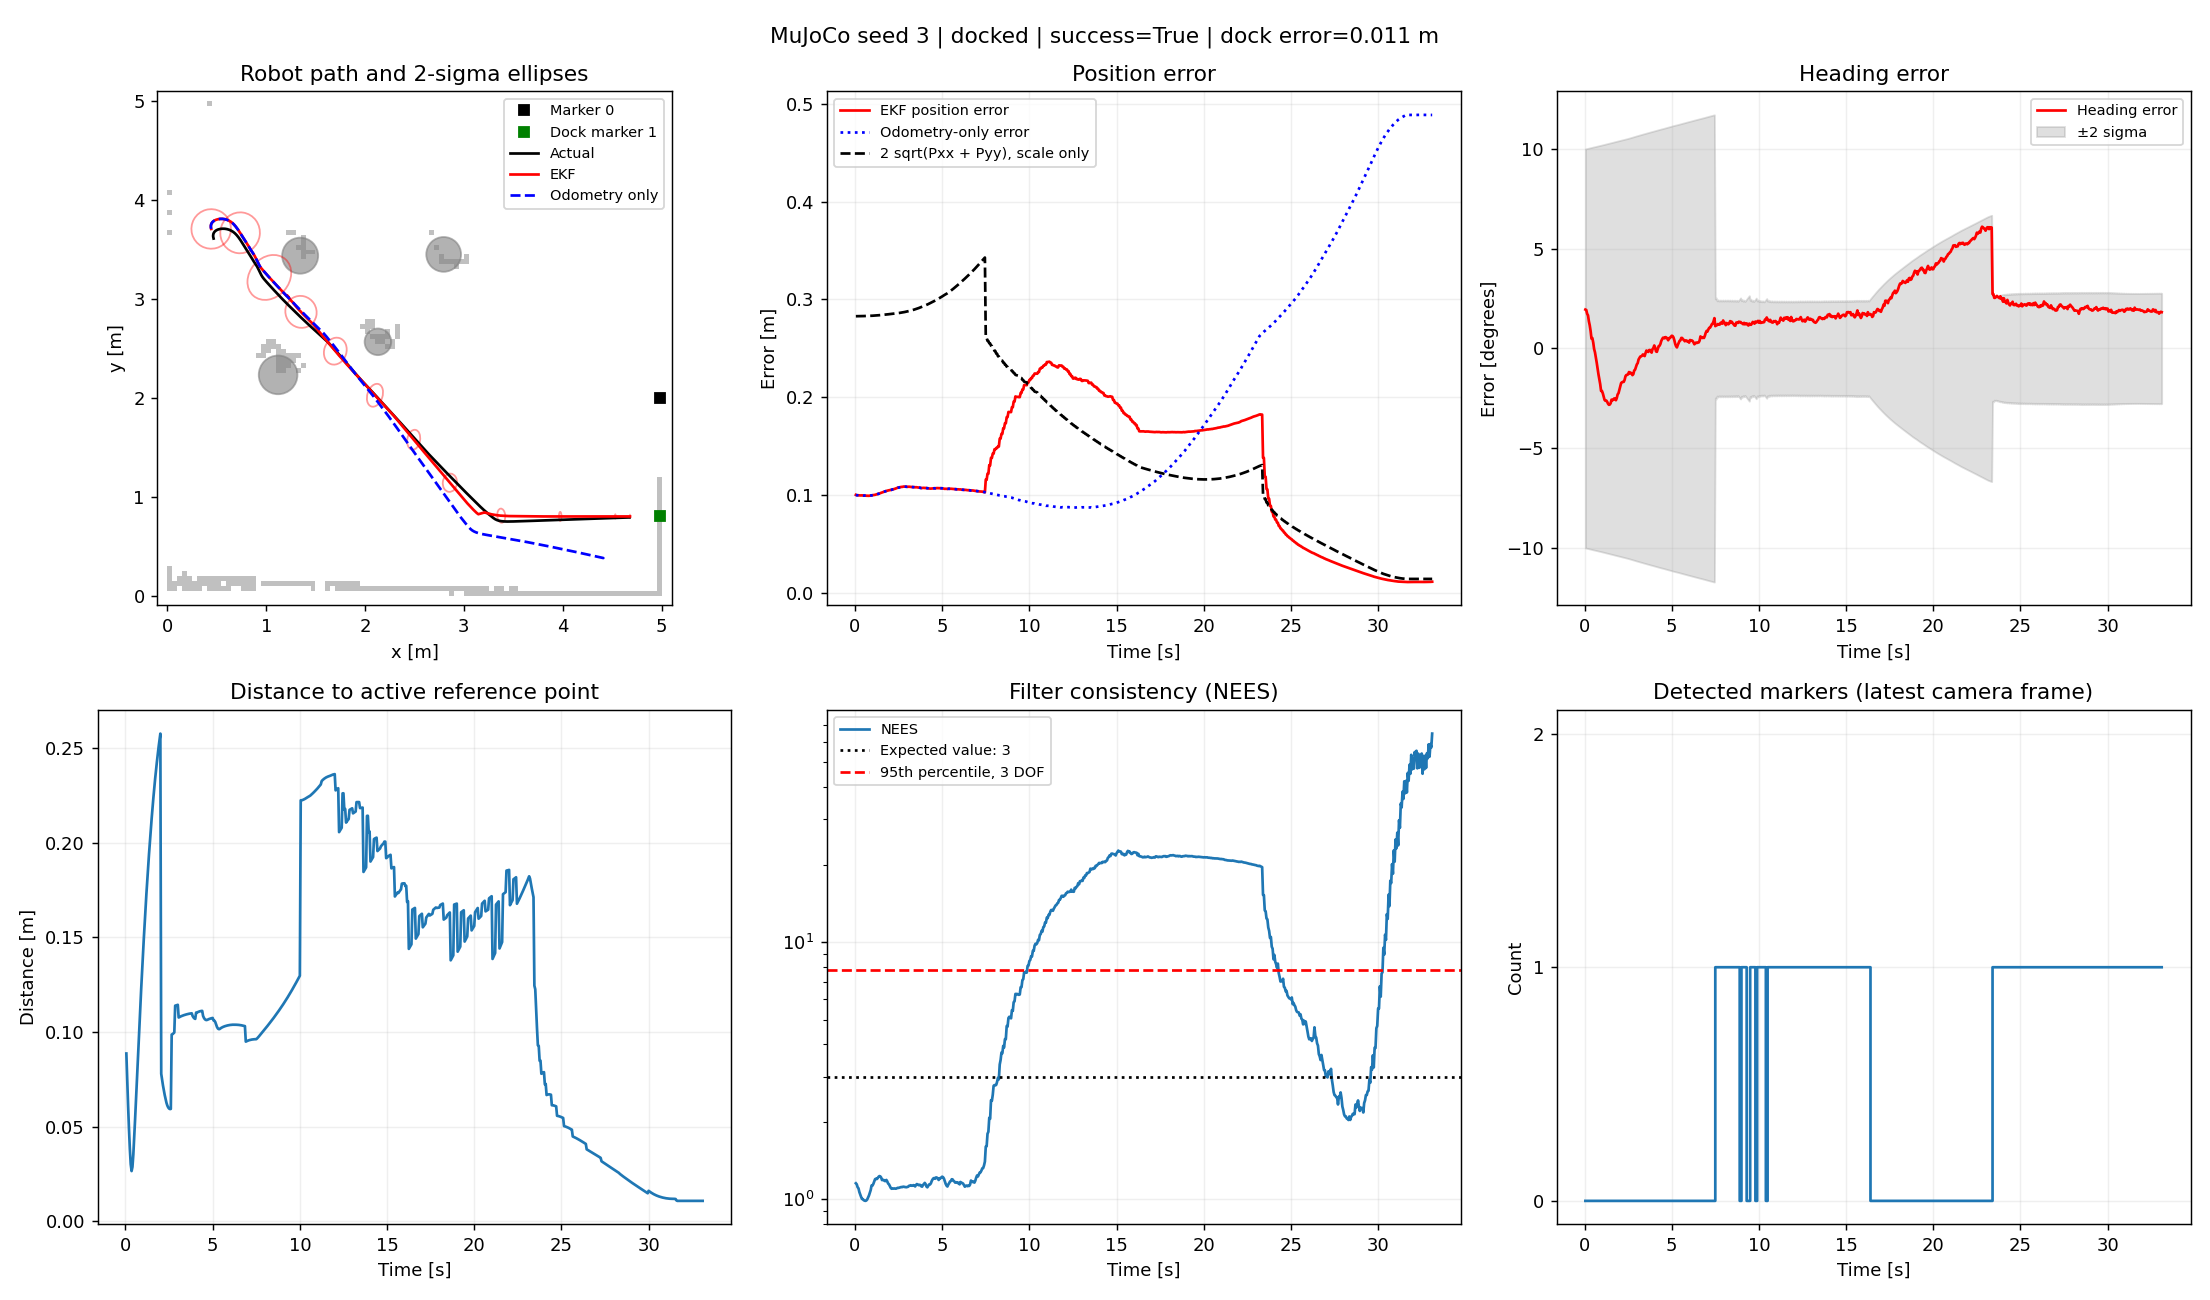
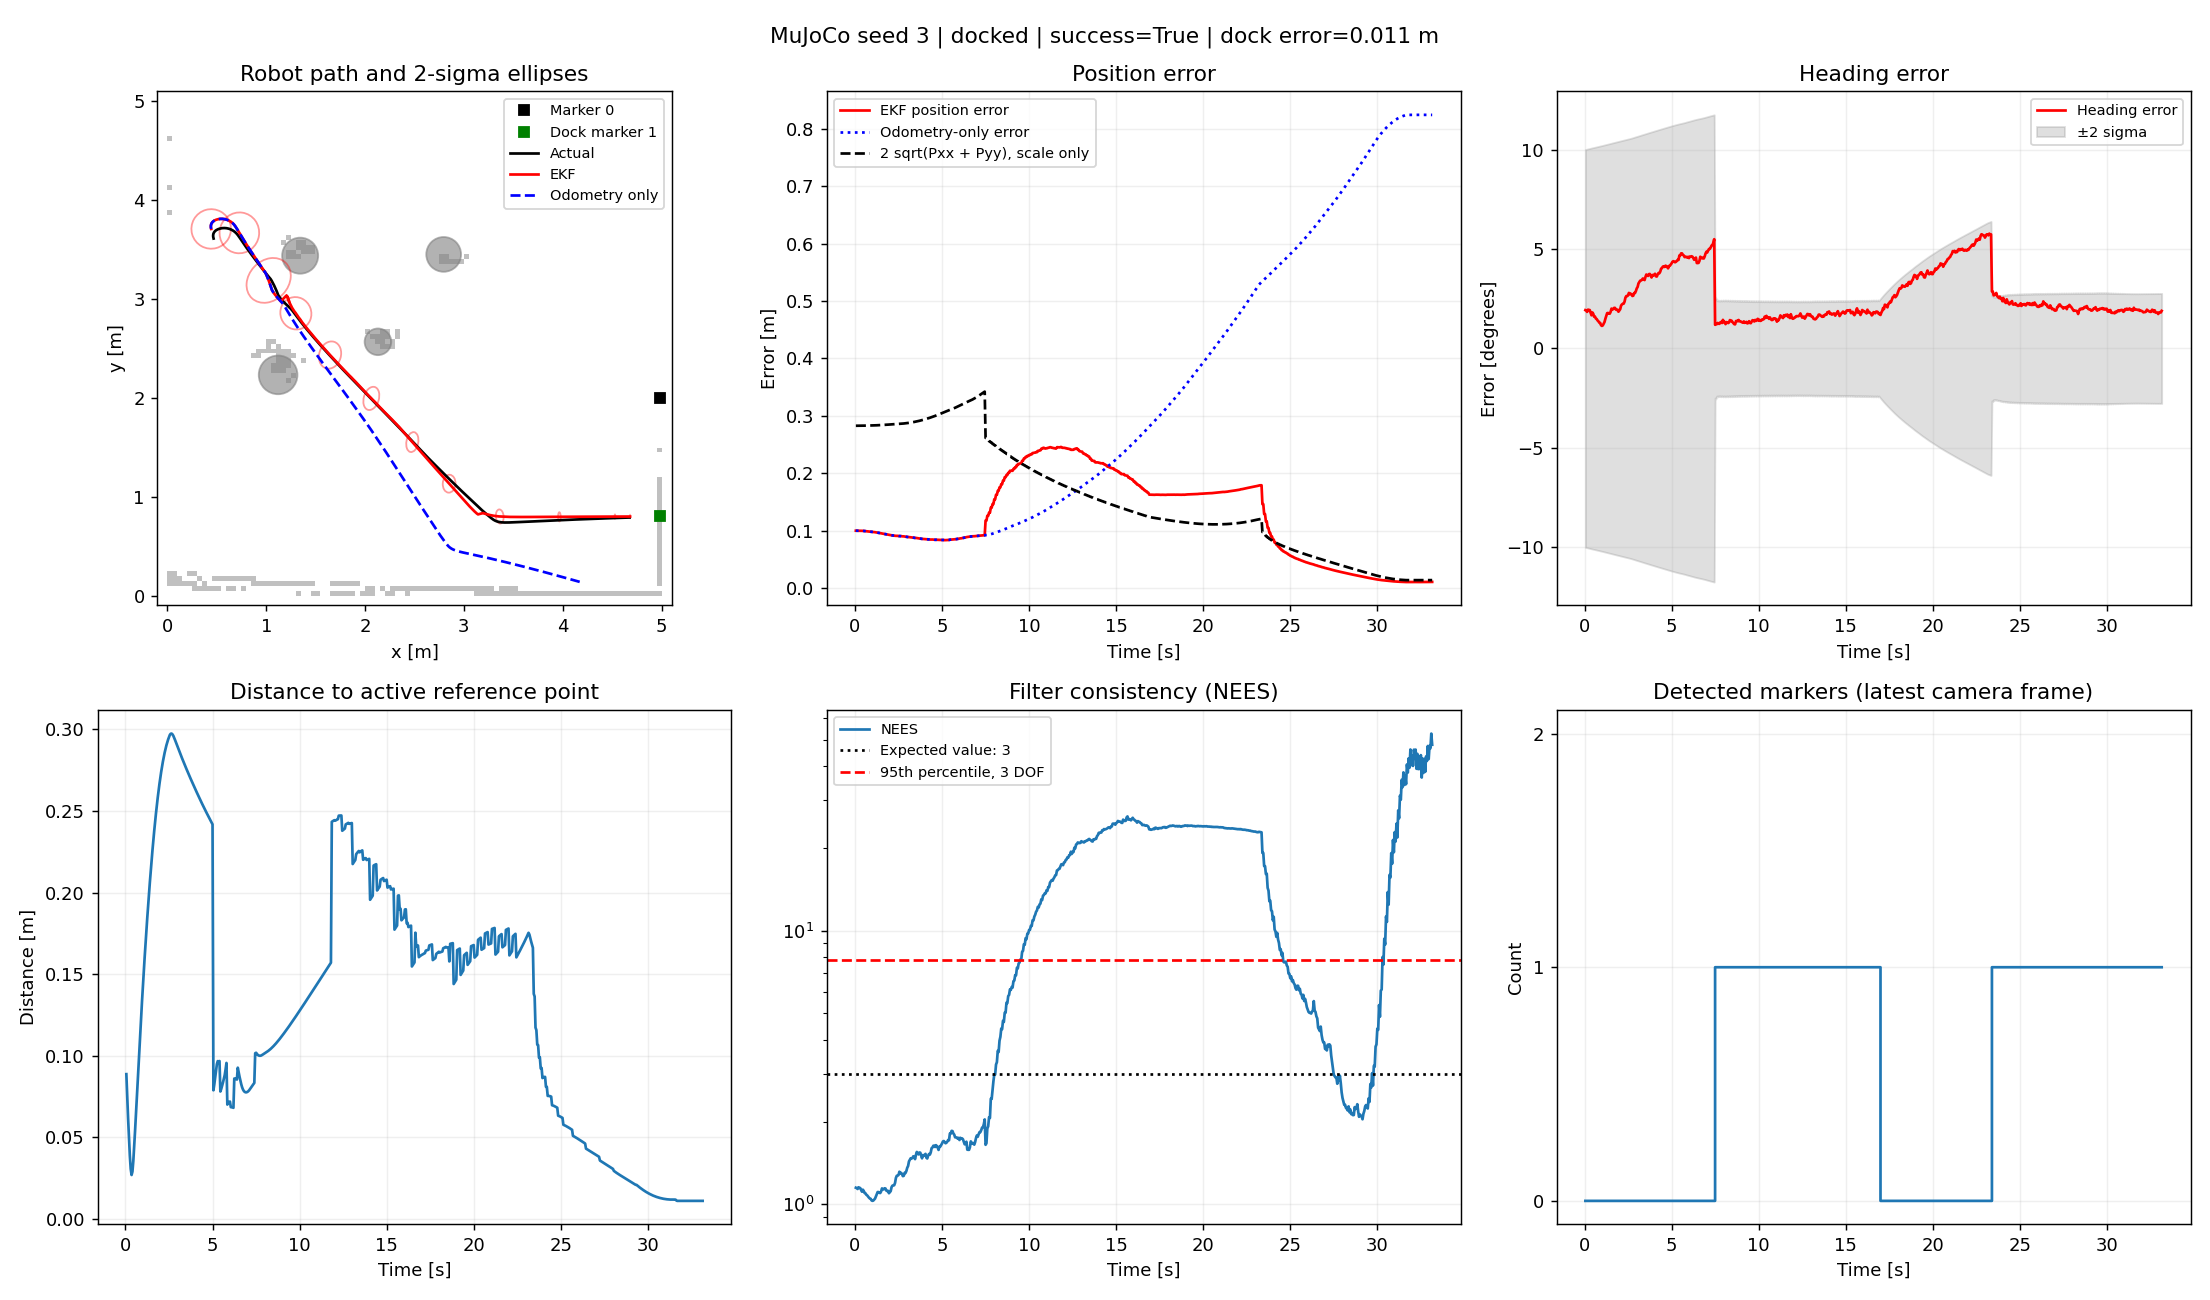
made comments

diff --git a/track A - mobile robot/src/model/diffdrive.py b/track A - mobile robot/src/model/diffdrive.py
@@ -1,25 +1,40 @@
-"""State-space model of the TurtleBot3 (differential drive) and the LQR error model.
+"""
+diffdrive UNICYCLE MODEL
+State-space model of the TurtleBot3 (differential drive) and the LQR error model.
 
-State x = [x, y, theta]; odometry input u = [v, omega] with
-    v = (v_R + v_L) / 2,   omega = (v_R - v_L) / b .
+contains all of the mathematical models which will be used in the EKF and the LQR control
+the motion is modeled off the unicycle kinematic model
+
+State x = [x, y, theta] (robots position and heading); odometry input u = [v, omega] (forward speed and turning) with
+    v = (v_R + v_L) / 2 (left and right wheel linear speeds),   omega = (v_R - v_L) / b.
 """
 import numpy as np
 from scipy.linalg import expm, solve_discrete_are
 from ..config import TRACK
 
 
+#---------------------------------------------------------------------------
+# EKF models
+#---------------------------------------------------------------------------
+
+# converts angles into the desired range of -pi<a<pi, since 190 and -170 represents the same angle
+# important for heading differences as 190 is the same as -170 but would be calculated as a 360 degree difference
 def wrap(a):
     return (np.asarray(a) + np.pi) % (2 * np.pi) - np.pi
 
-
+# converts the wheel speed into robot movement by calculating velocity v=(vr+vl)/2 and angular velocity w=(vr-vl)/2
+# outputs (v,w) used in the motion model
 def wheels_to_body(vl, vr, b=TRACK):
     return 0.5 * (vr + vl), (vr - vl) / b
 
-
+# converts the desired movement into wheel speeds (opposite of wheels to body)
+# outoput is (vl,vr) used in the controller to turn required motion into wheel speeds
 def body_to_wheels(v, w, b=TRACK):
     return v - 0.5 * w * b, v + 0.5 * w * b
 
-
+# calculates a stabe curved motion correction
+# s is used to erxpress a circular arc motion
+# makes turning predictions more accurate in F and G motion
 def _sinc_half(w, dt):
     """sin(a)/a with a = w dt / 2, and its derivative with respect to w."""
     a = 0.5 * w * dt
@@ -31,7 +46,11 @@ def _sinc_half(w, dt):
         ds_da = (a * np.cos(a) - np.sin(a)) / (a * a)
     return s, ds_da * 0.5 * dt
 
-
+# used to predicts the robots next pose
+# this is the acutal non linear movement model 
+# it extracts speed, calculates the arc correction and finds the heading
+# this model predicts x, y, and theta required for the next step in the simulation
+# does not model acceleration, wheel slip or collisions
 def f_motion(x, u, dt):
     """Exact constant-(v, omega) arc over dt (same model as the Week 7/8 tutorials, written
     in a form that has no singularity at omega = 0)."""
@@ -42,18 +61,25 @@ def f_motion(x, u, dt):
                      x[1] + v * dt * s * np.sin(thm),
                      float(wrap(x[2] + w * dt))])
 
-
+# defines how uncertainty in the current pose affects the next pose
+# calculates the sensitivity to the current pose
+# includes x and y position errors and heading errors
+# ekf uses this to propogate pose covariance
 def F_motion(x, u, dt):
     """df/dx."""
     v, w = u
     s, _ = _sinc_half(w, dt)
     thm = x[2] + 0.5 * w * dt
     F = np.eye(3)
-    F[0, 2] = -v * dt * s * np.sin(thm)
+    F[0, 2] = -v * dt * s * np.sin(thm) # how heading error affects the predicted positioning
     F[1, 2] = v * dt * s * np.cos(thm)
     return F
 
 
+
+# defines how uncertainty in speed affects the next pose
+# calculate the snesitivity to speed inputs
+# Together, F and G describe small prediction errors: xnext = Fx + Gu
 def G_motion(x, u, dt):
     """df/du, used to propagate odometry noise into process noise."""
     v, w = u
@@ -68,7 +94,17 @@ def G_motion(x, u, dt):
     return G
 
 
-# ---- tracking-error model for the LQR -------------------------------------------------------
+#---------------------------------------------------------------------------
+# ---- tracking-error model for the LQR ------------------------
+#---------------------------------------------------------------------------
+
+# builds the linear model used by the LQR controller
+# describes error relative to a desired trajectory
+# v_r and w_r reference forward and turning speeds
+# position errors are expressed in the robot’s coordinate frame:
+# e_x = how far behind or ahead the referecne postion is 
+# e_y = how far left or right
+# e_gheta is the reference heading minus the robots heading
 def error_model(v_r, w_r):
     """Continuous error dynamics in the robot frame (Kanayama), linearised about e = 0.
 
@@ -83,7 +119,8 @@ def error_model(v_r, w_r):
                   [0.0, -1.0]])
     return A, B
 
-
+# converts the contnuous model into a discrete model
+# controller runs in steps so it needs a discrete not continuous model for LQR
 def c2d(A, B, dt):
     n, m = B.shape
     M = np.zeros((n + m, n + m))
@@ -91,18 +128,29 @@ def c2d(A, B, dt):
     E = expm(M * dt)
     return E[:n, :n], E[:n, n:]
 
-
+# claculates the optimal feedback gain 
+# designs a descrete LQR to balance these two objectives: 
+# reduce tracking error
+# aovid excessive control corrections
+# minimises this cost
+# this functions is essentially the heart of the LQR
 def dlqr(Ad, Bd, Q, R):
     P = solve_discrete_are(Ad, Bd, Q, R)
     K = np.linalg.solve(R + Bd.T @ P @ Bd, Bd.T @ P @ Ad)
     return K, P
 
 
+# ---------------------------------------------------------------------
+# controllability and observability
+# ---------------------------------------------------------------------
+
+# constructs the controllability matrix
+# asks whether the available outputs influence every state direction over time
 def ctrb(A, B):
     n = A.shape[0]
     return np.hstack([np.linalg.matrix_power(A, i) @ B for i in range(n)])
 
-
+# constructs an observability matrix over several updates
 def obsv_window(Fs, Hs):
     """Stacked observability matrix for a time-varying pair: rows H_k F_{k-1} ... F_0."""
     rows, Phi = [], np.eye(Fs[0].shape[0])

diff --git a/track A - mobile robot/src/estimation/ekf.py b/track A - mobile robot/src/estimation/ekf.py
@@ -4,7 +4,8 @@ from .. import config as C
 from ..model.diffdrive import f_motion, F_motion, G_motion, wrap, body_to_wheels
 from ..perception.camera import h_cam, H_cam, R_cam, pixels_to_rb
 
-
+# estimates the uncertainty in the wheel dometry
+# answers how much error should we expect in the speeds used to predict movement
 def odom_covariance(v, w, q_scale=1.0):
     """Covariance of the odometry velocity input, derived from wheel-level noise.
 
@@ -13,14 +14,19 @@ def odom_covariance(v, w, q_scale=1.0):
         v_err   ~ (e_L + e_R)/2          - (vL eps_L + vR eps_R)/2
         w_err   ~ (e_R - e_L)/b          - (vR eps_R - vL eps_L)/b
     """
-    vl, vr = body_to_wheels(v, w)
-    s2 = C.SIGMA_SLIP ** 2 + C.SIGMA_BIAS ** 2
+    vl, vr = body_to_wheels(v, w)              # converts body speed into left and right wheel speeds
+    s2 = C.SIGMA_SLIP ** 2 + C.SIGMA_BIAS ** 2  # two wheel source errors
     var_v = C.SIGMA_ENC ** 2 / 2 + s2 * (vl ** 2 + vr ** 2) / 4
     var_w = 2 * C.SIGMA_ENC ** 2 / C.TRACK ** 2 + s2 * (vl ** 2 + vr ** 2) / C.TRACK ** 2
     cov_vw = s2 * (vr ** 2 - vl ** 2) / (2 * C.TRACK) * (-1)   # shared slip terms correlate v and w
     return q_scale * np.array([[var_v, cov_vw], [cov_vw, var_w]])
 
 
+# creates and initiallises the filter
+# runs when a file creates an EKF
+# x0 = Initial estimated position and heading
+# P0 = Initial uncertainty in that estimate
+# cfg = Filter settings, including noise scales, focal length, and rejection threshold
 class EKF:
     def __init__(self, x0, P0, cfg):
         self.x = np.array(x0, float)
@@ -32,6 +38,10 @@ class EKF:
         self.frame_rej = 0
         self.n_recoveries = 0
 
+
+    # predicts movement nd increases uncertainty
+    # For example, the wheels might indicate that the robot travelled one metre. 
+    # The estimate moves forward by approximately that amount, while the covariance accounts for possible encoder errors and slip.
     def predict(self, u, dt=C.DT):
         F = F_motion(self.x, u, dt)
         G = G_motion(self.x, u, dt)
@@ -39,6 +49,13 @@ class EKF:
         self.x = f_motion(self.x, u, dt)
         self.P = F @ self.P @ F.T + Qd
 
+    # corrects the estimate using one marker
+    # This is the EKF’s measurement-update step. It processes one ArUco marker observation.
+    # estimates camera uncertainty
+    # uses the innovation covariance to combine:
+    #Uncertainty in the predicted observation caused by pose uncertainty.
+    #Uncertainty in the camera measurement.
+    # computes NIS: NIS measures how surprising the disagreement is relative to the expected uncertainty.
     def update_marker(self, mk_xy, u_px, s_px):
         cfg = self.cfg
         rho_m, beta_m = pixels_to_rb(u_px, s_px, fx=cfg.fx_filter)
@@ -62,6 +79,10 @@ class EKF:
         self.last_nis.append(nis)
         return True
 
+
+    # handles repeated rejection of camera observations
+    # This function helps the filter recover when its estimate becomes so inaccurate that the measurement gate rejects every observation.
+    # makes filter less confident so it accepts measuremetents when 5 have been rejected
     def end_frame(self, n_detected, n_accepted):
         """Lock-out recovery. A gate protects against outliers, but a filter that is genuinely
         wrong rejects every measurement and never recovers. If every detection in 5 consecutive

diff --git a/track A - mobile robot/src/config.py b/track A - mobile robot/src/config.py
@@ -20,7 +20,7 @@ LIDAR_EVERY = 4      # LiDAR at 5 Hz
 MAX_TIME = 180.0     # trial timeout [s]
 
 # ---- platform (TurtleBot3 Burger) -------------------------------------------------------
-TRACK = 0.160        # wheel separation b [m]
+TRACK = 0.160        # wheel separation b [m] (difference between the drive wheels)
 ROBOT_RADIUS = 0.105 # footprint radius [m]
 V_MAX = 0.20         # commanded linear speed limit [m/s] (hardware max 0.22)
 W_MAX = 1.5          # commanded turn-rate limit [rad/s] (hardware max 2.84)
